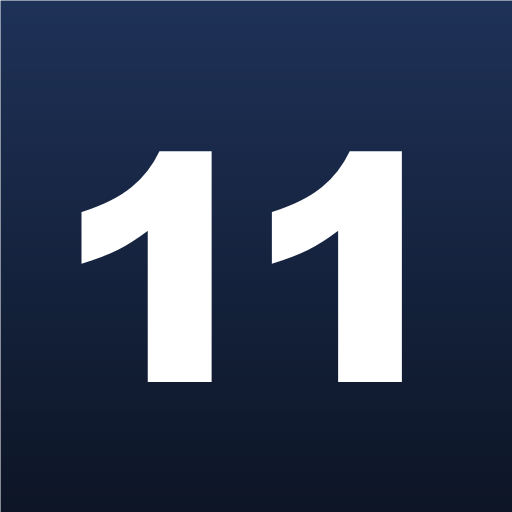
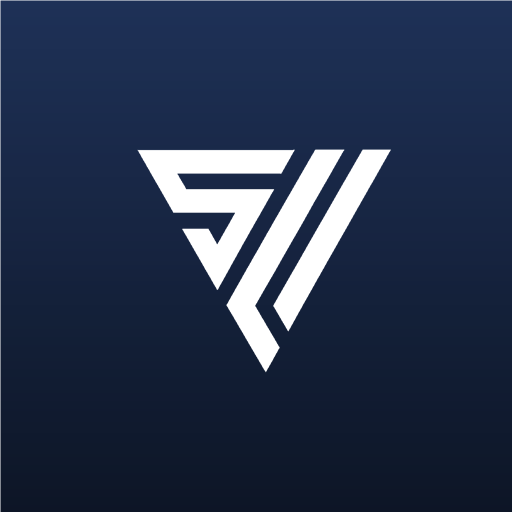
Add files via upload

Changed region(s): [[0.1562, 0.2812, 0.8125, 0.75]]

diff --git a/index.html b/index.html
@@ -299,6 +299,21 @@
   body.admin #authInfo{color:var(--tertiary); font-family:var(--f-label); font-size:11px; letter-spacing:.05em;}
   .ro-note{font-family:var(--f-label); font-size:11px; letter-spacing:.04em; color:var(--on-var);
     background:var(--c-low); border:1px solid var(--outline-v); border-radius:var(--r); padding:8px 12px; margin-bottom:12px;}
+  .admin-row{display:flex; align-items:center; justify-content:space-between; gap:10px; padding:10px 12px;
+    border-radius:var(--r); background:var(--c-low); border:1px solid var(--outline-v); margin-bottom:7px;}
+  .admin-row b{font-family:var(--f-head); font-weight:600; font-size:14px;}
+  .admin-row .ar-btns{display:flex; gap:6px; flex-shrink:0;}
+  /* 사진 크롭 편집기 */
+  #cropOverlay{z-index:70;}
+  .crop-stage{width:280px; max-width:100%; margin:0 auto; border-radius:var(--r-md); overflow:hidden; touch-action:none; cursor:grab;
+    background:repeating-conic-gradient(#2c2f34 0% 25%, #22252a 0% 50%) 50%/22px 22px; border:1px solid var(--outline-v);}
+  .crop-stage:active{cursor:grabbing;}
+  #cropCanvas{display:block; width:100%; height:auto;}
+  .crop-ctrl{display:flex; align-items:center; gap:10px; margin-top:14px;}
+  .crop-ctrl input[type=range]{flex:1; accent-color:var(--primary);}
+  .crop-ctrl button{width:40px; height:40px; flex-shrink:0; border-radius:var(--r); background:var(--c-high);
+    border:1px solid var(--outline-v); color:var(--on); font-size:19px; font-weight:700; cursor:pointer;}
+  .crop-ctrl button:hover{background:var(--c-highest);}
   /* edit modal: position quick buttons + exclude */
   .pos-btns{display:flex; gap:6px; margin:4px 0 14px;}
   .pos-btns button{flex:1; font-family:var(--f-label); font-size:12px; font-weight:700; padding:9px 0; border-radius:var(--r);
@@ -341,7 +356,7 @@
 </head>
 <body>
 <header>
-  <div class="logo"><span class="mk">⚽</span>수지<span style="color:var(--primary)">FC</span></div>
+  <div class="logo"><span class="mk"><img src="logo-mark.png" alt="수지FC" style="width:23px;height:23px;object-fit:contain;"></span>수지<span style="color:var(--primary)">FC</span></div>
   <div class="tabs">
     <button id="tab-lineup" class="active" onclick="showView('lineup')">라인업 생성</button>
     <button id="tab-roster" onclick="showView('roster')">선수 명단</button>
@@ -349,6 +364,7 @@
     <button id="tab-stats" onclick="showView('stats')">개인 기록</button>
   </div>
   <span class="spacer" id="authInfo"></span>
+  <button id="adminManageBtn" class="btn sm" style="display:none;" onclick="openAdminManage()">운영진 관리</button>
   <button id="authBtn" class="btn sm" style="display:none;" onclick="authClick()">운영진 로그인</button>
 </header>
 
@@ -374,9 +390,9 @@
             <div><div class="t">1. 완전 무작위</div><div class="d">전체 임의 랜덤으로 팀 편성</div></div></label>
           <label class="opt"><input type="radio" name="mtd" value="position">
             <div><div class="t">2. 포지션 고려</div><div class="d">수비·미드·공격 균형 배치</div></div></label>
-          <label class="opt"><input type="radio" name="mtd" value="skill">
+          <label class="opt admin-only"><input type="radio" name="mtd" value="skill">
             <div><div class="t">3. 실력 고려</div><div class="d">상·중·하 양팀 골고루</div></div></label>
-          <label class="opt"><input type="radio" name="mtd" value="both">
+          <label class="opt admin-only"><input type="radio" name="mtd" value="both">
             <div><div class="t">4. 포지션 + 실력</div><div class="d">포지션 균형 + 실력 최대한 유사</div></div></label>
         </div>
       </div>
@@ -386,7 +402,7 @@
         <div class="rowg">
           <div><label class="fld">포지션</label>
             <select id="gPos"><option>GK</option><option>DF</option><option selected>MF</option><option>FW</option></select></div>
-          <div><label class="fld">실력</label>
+          <div class="admin-only"><label class="fld">실력</label>
             <select id="gSkill"><option>상</option><option selected>중</option><option>하</option></select></div>
           <div style="max-width:78px"><label class="fld">인원</label>
             <input type="number" id="gCount" min="1" max="20" value="1"></div>
@@ -435,7 +451,7 @@
       <div class="filters">
         <div class="fgroup"><span class="lab">포지션</span>
           <div class="chips" id="posChips"></div></div>
-        <div class="fgroup"><span class="lab">실력</span>
+        <div class="fgroup admin-only"><span class="lab">실력</span>
           <div class="chips" id="skillChips"></div></div>
         <div class="fgroup"><span class="lab">참석</span>
           <div class="chips" id="attendChips"></div></div>
@@ -482,19 +498,29 @@
 <!-- history modal -->
 <div class="overlay" id="histOverlay"><div class="modal wide" id="histBody"></div></div>
 
-<!-- login modal -->
+<!-- login / signup modal -->
 <div class="overlay" id="loginOverlay"><div class="modal">
-  <h3>🔒 운영진 로그인</h3>
-  <p class="muted" style="font-size:12px; text-align:center; margin:0 0 16px;">명단·사진·기록을 수정하려면 로그인하세요.<br>선수는 로그인 없이 열람만 하면 됩니다.</p>
+  <h3 id="loginTitle">🔒 운영진 로그인</h3>
+  <p class="muted" id="loginHint" style="font-size:12px; text-align:center; margin:0 0 16px;">명단·사진·기록을 수정하려면 로그인하세요.</p>
+  <div id="signupNameWrap" style="display:none;">
+    <label class="fld">이름</label>
+    <input type="text" id="signupName" placeholder="이름" maxlength="10">
+  </div>
   <label class="fld">이메일</label>
-  <input type="email" id="loginEmail" placeholder="[email redacted]" autocomplete="username">
+  <input type="email" id="loginEmail" placeholder="[email redacted]" autocomplete="username">
   <label class="fld">비밀번호</label>
-  <input type="password" id="loginPw" placeholder="비밀번호" autocomplete="current-password">
+  <input type="password" id="loginPw" placeholder="비밀번호 (6자 이상)" autocomplete="current-password">
   <div class="modal-btns">
-    <button class="btn primary" style="flex:1;" onclick="doLogin()">로그인</button>
+    <button class="btn primary" id="loginSubmit" style="flex:1;" onclick="doLoginOrSignup()">로그인</button>
     <button class="btn ghost" style="flex:1;" onclick="closeLogin()">취소</button>
   </div>
+  <div style="text-align:center; margin-top:14px;">
+    <a id="modeToggle" onclick="toggleAuthMode()" style="cursor:pointer; color:var(--primary); font-size:13px; font-weight:600;">운영진으로 가입 신청하기 →</a>
+  </div>
 </div></div>
+
+<!-- admin management modal -->
+<div class="overlay" id="adminOverlay"><div class="modal wide" id="adminBody"></div></div>
 
 <!-- modal -->
 <div class="overlay" id="overlay">
@@ -525,11 +551,28 @@
 <!-- lineup edit modal -->
 <div class="overlay" id="editOverlay"><div class="modal wide" id="editBody"></div></div>
 
+<!-- photo crop modal -->
+<div class="overlay" id="cropOverlay"><div class="modal">
+  <h3>🖼️ 사진 위치·크기 조정</h3>
+  <p class="muted" style="font-size:12px; text-align:center; margin:0 0 14px;">드래그로 이동 · 슬라이더/휠/손가락으로 확대·축소</p>
+  <div class="crop-stage"><canvas id="cropCanvas" width="280" height="280"></canvas></div>
+  <div class="crop-ctrl">
+    <button type="button" onclick="cropZoom(-0.15)">－</button>
+    <input type="range" id="cropRange" min="0.3" max="5" step="0.01" value="1" oninput="cropSetZoom(this.value)">
+    <button type="button" onclick="cropZoom(0.15)">＋</button>
+  </div>
+  <div class="modal-btns">
+    <button class="btn primary" style="flex:1;" onclick="applyCrop()">적용</button>
+    <button class="btn ghost" style="flex:1;" onclick="closeCrop()">취소</button>
+  </div>
+</div></div>
+
 <div class="toast" id="toast"></div>
 
 <script>
 /* ============ 상수 ============ */
 const POS_COLORS={GK:'#f1c40f',DF:'#5b9bff',MF:'#3ddc84',FW:'#ff5a52'};
+const DEFAULT_PROFILE_SRC='profile-none.png';
 const POS_LIST=['GK','DF','MF','FW'];
 const SKILL_LIST=['상','중','하'];
 const SKILL_SCORE={'상':3,'중':2,'하':1};
@@ -565,7 +608,7 @@ let drag=null, hoverRef=null, hoverKey=null;
 const EMPTY_STATS={games:0,goals:0,assists:0,saves:0};
 
 /* ============ Firebase 연동 (실시간 동기화 · 운영진 편집) ============ */
-let FB=null, FBauth=null, isAdmin=false, attendMap={};
+let FB=null, FBauth=null, isAdmin=false, currentUser=null, attendMap={}, authMode='login';
 function canEdit(){ return !FB || isAdmin; }
 function requireAdmin(){ if(canEdit()) return true; toast('운영진 로그인이 필요합니다 🔒'); return false; }
 function loadAttend(){ const r=localStorage.getItem('suziFC_attend'); if(r){try{attendMap=JSON.parse(r);}catch(e){attendMap={};}} }
@@ -579,7 +622,9 @@ function initFirebase(){
     firebase.initializeApp(window.SUJI_FIREBASE_CONFIG);
     FB=firebase.firestore(); FBauth=firebase.auth();
     FB.enablePersistence({synchronizeTabs:true}).catch(()=>{});
-    FBauth.onAuthStateChanged(u=>{ isAdmin=!!u; updateAdminUI(); if(u) maybeSeed(); });
+    FBauth.onAuthStateChanged(u=>{ currentUser=u;
+      if(u){ FB.collection('admins').doc(u.uid).get().then(doc=>{ isAdmin=doc.exists; updateAdminUI(); if(isAdmin) maybeSeed(); }).catch(()=>{ isAdmin=false; updateAdminUI(); }); }
+      else { isAdmin=false; updateAdminUI(); } });
     subscribeRoster(); subscribeMatches();
     return true;
   }catch(e){ console.error('Firebase init 실패',e); FB=null; return false; }
@@ -611,29 +656,124 @@ function fbReplaceRoster(list){ if(!FB||!isAdmin) return; FB.collection('roster'
 function fbSaveMatch(mt){ if(!FB||!isAdmin||!mt) return; FB.collection('matches').doc(mt.id).set(matchDoc(mt)).catch(e=>console.error(e)); }
 function fbDeleteMatch(id){ if(!FB||!isAdmin) return; FB.collection('matches').doc(id).delete().catch(e=>console.error(e)); }
 function updateAdminUI(){
-  const admin=canEdit();
-  document.body.classList.toggle('admin',admin);
-  const btn=document.getElementById('authBtn'), info=document.getElementById('authInfo');
-  if(FB){ btn.style.display=''; btn.textContent=isAdmin?'로그아웃':'운영진 로그인'; info.textContent=isAdmin?'● 운영진 모드':''; }
-  else { btn.style.display='none'; info.textContent=''; }
+  document.body.classList.toggle('admin',canEdit());
+  const btn=document.getElementById('authBtn'), info=document.getElementById('authInfo'), mng=document.getElementById('adminManageBtn');
+  if(FB){
+    btn.style.display='';
+    if(!currentUser){ btn.textContent='운영진 로그인'; info.textContent=''; }
+    else if(isAdmin){ btn.textContent='로그아웃'; info.textContent='● 운영진 모드'; }
+    else { btn.textContent='로그아웃'; info.textContent='승인 대기 중'; }
+    mng.style.display=isAdmin?'':'none';
+  } else { btn.style.display='none'; info.textContent=''; mng.style.display='none'; }
   renderRoster();
   if(document.getElementById('view-stats').classList.contains('on')) renderStats();
   if(document.getElementById('view-match').classList.contains('on')) renderMatches();
 }
-function authClick(){ if(!FB) return; if(isAdmin){ FBauth.signOut(); toast('로그아웃되었습니다'); } else openLogin(); }
-function openLogin(){ document.getElementById('loginEmail').value=''; document.getElementById('loginPw').value=''; document.getElementById('loginOverlay').classList.add('on'); }
+function authClick(){ if(!FB) return; if(currentUser){ FBauth.signOut(); toast('로그아웃되었습니다'); } else openLogin(); }
+function openLogin(){ authMode='login'; renderAuthMode();
+  document.getElementById('signupName').value=''; document.getElementById('loginEmail').value=''; document.getElementById('loginPw').value='';
+  document.getElementById('loginOverlay').classList.add('on'); }
 function closeLogin(){ document.getElementById('loginOverlay').classList.remove('on'); }
-function doLogin(){ const em=document.getElementById('loginEmail').value.trim(), pw=document.getElementById('loginPw').value;
+function renderAuthMode(){
+  const s=authMode==='signup';
+  document.getElementById('loginTitle').textContent=s?'📝 운영진 가입 신청':'🔒 운영진 로그인';
+  document.getElementById('loginHint').textContent=s?'가입 후 관리자 승인을 받으면 편집할 수 있습니다.':'명단·기록을 수정하려면 로그인하세요.';
+  document.getElementById('signupNameWrap').style.display=s?'':'none';
+  document.getElementById('loginSubmit').textContent=s?'가입 신청':'로그인';
+  document.getElementById('modeToggle').textContent=s?'← 로그인으로 돌아가기':'운영진으로 가입 신청하기 →';
+}
+function toggleAuthMode(){ authMode=authMode==='signup'?'login':'signup'; renderAuthMode(); }
+function authErr(e){ const c=e&&e.code||''; if(c==='auth/email-already-in-use')return '이미 가입된 이메일입니다'; if(c==='auth/invalid-email')return '이메일 형식이 올바르지 않습니다'; if(c==='auth/weak-password')return '비밀번호는 6자 이상이어야 합니다'; if(c==='auth/wrong-password'||c==='auth/invalid-credential')return '이메일 또는 비밀번호가 올바르지 않습니다'; if(c==='auth/user-not-found')return '가입되지 않은 이메일입니다'; return '다시 시도해주세요'; }
+function doLoginOrSignup(){
+  const em=document.getElementById('loginEmail').value.trim(), pw=document.getElementById('loginPw').value;
   if(!em||!pw){ toast('이메일과 비밀번호를 입력하세요'); return; }
-  FBauth.signInWithEmailAndPassword(em,pw).then(()=>{ closeLogin(); toast('운영진 로그인 성공 ✅'); }).catch(e=>{ console.error(e); toast('로그인 실패 — 이메일/비밀번호를 확인하세요'); }); }
+  if(authMode==='signup'){
+    const name=document.getElementById('signupName').value.trim();
+    if(!name){ toast('이름을 입력하세요'); return; }
+    if(pw.length<6){ toast('비밀번호는 6자 이상이어야 합니다'); return; }
+    FBauth.createUserWithEmailAndPassword(em,pw)
+      .then(cred=>FB.collection('adminRequests').doc(cred.user.uid).set({name,email:em,at:Date.now()}))
+      .then(()=>{ closeLogin(); toast('운영진 가입 신청 완료! 관리자 승인을 기다려주세요 📝'); })
+      .catch(e=>{ console.error(e); toast('가입 실패: '+authErr(e)); });
+  } else {
+    FBauth.signInWithEmailAndPassword(em,pw).then(()=>{ closeLogin(); toast('로그인 성공 ✅'); }).catch(e=>{ console.error(e); toast('로그인 실패: '+authErr(e)); });
+  }
+}
+/* 운영진 관리 (승인/거절/제거) */
+function openAdminManage(){
+  if(!FB||!isAdmin){ toast('운영진만 사용할 수 있습니다'); return; }
+  const body=document.getElementById('adminBody');
+  body.innerHTML='<h3>👥 운영진 관리</h3><p class="muted" style="font-size:12px;text-align:center;padding:16px 0;">불러오는 중...</p>';
+  document.getElementById('adminOverlay').classList.add('on');
+  Promise.all([FB.collection('adminRequests').get(), FB.collection('admins').get()]).then(([reqs,admins])=>{
+    let html='<h3>👥 운영진 관리</h3>';
+    html+='<div class="modal-sub">🕓 승인 대기</div>';
+    if(reqs.empty) html+='<p class="muted" style="font-size:12px;margin:0 0 8px;">대기 중인 신청이 없습니다.</p>';
+    else reqs.forEach(d=>{ const r=d.data(), nm=(r.name||'').replace(/'/g,"\\'"), em=(r.email||'').replace(/'/g,"\\'");
+      html+=`<div class="admin-row"><div style="min-width:0"><b>${r.name||'(이름없음)'}</b><div class="muted" style="font-size:11px">${r.email||''}</div></div>
+        <div class="ar-btns"><button class="btn primary sm" onclick="approveReq('${d.id}','${nm}','${em}')">승인</button>
+        <button class="btn ghost sm" onclick="rejectReq('${d.id}')">거절</button></div></div>`; });
+    html+='<div class="modal-sub" style="margin-top:16px">✅ 현재 운영진</div>';
+    admins.forEach(d=>{ const a=d.data(), me=(currentUser&&d.id===currentUser.uid);
+      html+=`<div class="admin-row"><div style="min-width:0"><b>${a.name||a.email||'운영진'}</b>${me?' <span style="color:var(--tertiary);font-size:11px">(나)</span>':''}<div class="muted" style="font-size:11px">${a.email||''}</div></div>
+        ${me?'':`<div class="ar-btns"><button class="btn ghost sm" onclick="removeAdmin('${d.id}')">제거</button></div>`}</div>`; });
+    html+='<div class="modal-btns"><button class="btn ghost" style="flex:1" onclick="closeAdminManage()">닫기</button></div>';
+    body.innerHTML=html;
+  }).catch(e=>{ console.error(e); body.innerHTML='<h3>👥 운영진 관리</h3><p class="muted" style="text-align:center;padding:16px 0;">불러오기 실패</p><div class="modal-btns"><button class="btn ghost" style="flex:1" onclick="closeAdminManage()">닫기</button></div>'; });
+}
+function closeAdminManage(){ document.getElementById('adminOverlay').classList.remove('on'); }
+function approveReq(uid,name,email){ FB.collection('admins').doc(uid).set({name,email,at:Date.now()})
+  .then(()=>FB.collection('adminRequests').doc(uid).delete()).then(()=>{ toast('승인 완료 ✅'); openAdminManage(); }).catch(e=>{ console.error(e); toast('승인 실패'); }); }
+function rejectReq(uid){ FB.collection('adminRequests').doc(uid).delete().then(()=>{ toast('신청을 거절했습니다'); openAdminManage(); }).catch(e=>{ console.error(e); toast('실패'); }); }
+function removeAdmin(uid){ if(!confirm('이 운영진 권한을 제거할까요?'))return; FB.collection('admins').doc(uid).delete().then(()=>{ toast('운영진에서 제거했습니다'); openAdminManage(); }).catch(e=>{ console.error(e); toast('실패'); }); }
 function compressImage(src,cb){
   const img=new Image();
-  img.onload=()=>{ const max=256; let w=img.width,h=img.height;
+  img.onload=()=>{ const max=340; let w=img.width,h=img.height;
     if(w>h){ if(w>max){h=Math.round(h*max/w); w=max;} } else { if(h>max){w=Math.round(w*max/h); h=max;} }
-    const c=document.createElement('canvas'); c.width=w; c.height=h; c.getContext('2d').drawImage(img,0,0,w,h);
-    try{ cb(c.toDataURL('image/jpeg',0.72)); }catch(e){ cb(src); } };
+    const c=document.createElement('canvas'); c.width=w; c.height=h;
+    const ctx=c.getContext('2d'); ctx.clearRect(0,0,w,h); ctx.drawImage(img,0,0,w,h);
+    // 투명 배경(컷아웃 PNG)이면 PNG로 저장해 투명 유지, 아니면 JPEG로 용량 절감
+    let hasAlpha=false;
+    try{ const dt=ctx.getImageData(0,0,w,h).data; for(let i=3;i<dt.length;i+=4){ if(dt[i]<250){ hasAlpha=true; break; } } }catch(e){ hasAlpha=true; }
+    try{ cb(hasAlpha ? c.toDataURL('image/png') : c.toDataURL('image/jpeg',0.78)); }catch(e){ cb(src); } };
   img.onerror=()=>cb(src); img.src=src;
 }
+/* ============ 사진 크롭 편집기 ============ */
+const CROP_C=280;
+let cropImg=null, cropZoomV=1, cropBaseScale=1, cropX=0, cropY=0;
+const cropPtrs=new Map(); let cropPanStart=null, cropPinch=null;
+function clampv(v,a,b){ return Math.max(a,Math.min(b,v)); }
+function canvasToDataURL(c){ const ctx=c.getContext('2d'); let hasAlpha=false;
+  try{ const d=ctx.getImageData(0,0,c.width,c.height).data; for(let i=3;i<d.length;i+=4){ if(d[i]<250){hasAlpha=true;break;} } }catch(e){ hasAlpha=true; }
+  return hasAlpha ? c.toDataURL('image/png') : c.toDataURL('image/jpeg',0.82); }
+function openCrop(src){
+  cropImg=new Image();
+  cropImg.onload=()=>{ cropBaseScale=Math.min(CROP_C/cropImg.width, CROP_C/cropImg.height); cropZoomV=1; cropX=0; cropY=0;
+    document.getElementById('cropRange').value=1; drawCrop(); document.getElementById('cropOverlay').classList.add('on'); };
+  cropImg.onerror=()=>{ compressImage(src,d=>{tempPhoto=d;setAva(tempPhoto,'');}); };
+  cropImg.src=src;
+}
+function closeCrop(){ document.getElementById('cropOverlay').classList.remove('on'); cropPtrs.clear(); cropPanStart=null; cropPinch=null; }
+function drawCrop(){ if(!cropImg)return; const c=document.getElementById('cropCanvas'), ctx=c.getContext('2d');
+  ctx.clearRect(0,0,CROP_C,CROP_C); const s=cropBaseScale*cropZoomV, w=cropImg.width*s, h=cropImg.height*s;
+  ctx.drawImage(cropImg, CROP_C/2 - w/2 + cropX, CROP_C/2 - h/2 + cropY, w, h); }
+function cropZoom(d){ cropZoomV=clampv(cropZoomV+d,0.3,5); document.getElementById('cropRange').value=cropZoomV.toFixed(2); drawCrop(); }
+function cropSetZoom(v){ cropZoomV=clampv(+v,0.3,5); drawCrop(); }
+function cropFactor(){ const c=document.getElementById('cropCanvas'); return CROP_C / (c.clientWidth||CROP_C); }
+function cropDown(e){ const c=e.currentTarget; try{c.setPointerCapture(e.pointerId);}catch(_){} cropPtrs.set(e.pointerId,{x:e.clientX,y:e.clientY}); e.preventDefault();
+  if(cropPtrs.size===1){ cropPanStart={x:e.clientX,y:e.clientY,ox:cropX,oy:cropY}; cropPinch=null; }
+  else if(cropPtrs.size===2){ const p=[...cropPtrs.values()]; cropPinch={d:Math.hypot(p[0].x-p[1].x,p[0].y-p[1].y),z:cropZoomV}; cropPanStart=null; } }
+function cropMove(e){ if(!cropPtrs.has(e.pointerId))return; cropPtrs.set(e.pointerId,{x:e.clientX,y:e.clientY});
+  if(cropPinch && cropPtrs.size>=2){ const p=[...cropPtrs.values()], d=Math.hypot(p[0].x-p[1].x,p[0].y-p[1].y);
+    cropZoomV=clampv(cropPinch.z*(d/cropPinch.d),0.3,5); document.getElementById('cropRange').value=cropZoomV.toFixed(2); drawCrop(); }
+  else if(cropPanStart){ const f=cropFactor(); cropX=cropPanStart.ox+(e.clientX-cropPanStart.x)*f; cropY=cropPanStart.oy+(e.clientY-cropPanStart.y)*f; drawCrop(); } }
+function cropUp(e){ cropPtrs.delete(e.pointerId); if(cropPtrs.size<2)cropPinch=null;
+  if(cropPtrs.size===0)cropPanStart=null; else if(cropPtrs.size===1){ const p=[...cropPtrs.values()][0]; cropPanStart={x:p.x,y:p.y,ox:cropX,oy:cropY}; } }
+function applyCrop(){ if(!cropImg){ closeCrop(); return; } const OUT=340, k=OUT/CROP_C;
+  const oc=document.createElement('canvas'); oc.width=OUT; oc.height=OUT; const octx=oc.getContext('2d');
+  const s=cropBaseScale*cropZoomV, w=cropImg.width*s*k, h=cropImg.height*s*k;
+  octx.drawImage(cropImg, OUT/2 - w/2 + cropX*k, OUT/2 - h/2 + cropY*k, w, h);
+  tempPhoto=canvasToDataURL(oc); setAva(tempPhoto,''); closeCrop(); }
 
 /* ============ 저장/생성 ============ */
 function save(){ localStorage.setItem('suziFC_members',JSON.stringify(members)); }
@@ -730,7 +870,7 @@ function renderRoster(){
       <span class="ava sm" ${ava}>${m.photo?'':m.name[0]}</span>
       <span class="mr-name">${m.name}</span>
       <span class="badge pos" style="background:${POS_COLORS[m.position]}">${m.position}</span>
-      <span class="badge skill">${m.skill}</span>
+      <span class="badge skill admin-only">${m.skill}</span>
       ${m.age?`<span class="mr-age">${m.age}세</span>`:''}
       <span class="mr-sp"></span>
       <button class="mr-toggle ${m.attend?'on':''}" onclick="toggleAttend('${m.id}')">${m.attend?'참석':'불참'}</button>
@@ -771,7 +911,7 @@ function setAva(photo,fb){ const a=document.getElementById('avaEdit');
 function clearPhoto(){ tempPhoto=null; const nm=document.getElementById('mName').value.trim(); setAva(null,nm?nm[0]:'사진 선택'); toast('사진을 삭제했습니다'); }
 function closeModal(){ document.getElementById('overlay').classList.remove('on'); }
 document.getElementById('photoInput').addEventListener('change',e=>{ const f=e.target.files[0]; if(!f)return;
-  const r=new FileReader(); r.onload=ev=>{ compressImage(ev.target.result,d=>{ tempPhoto=d; setAva(tempPhoto,''); }); }; r.readAsDataURL(f); });
+  const r=new FileReader(); r.onload=ev=>openCrop(ev.target.result); r.readAsDataURL(f); e.target.value=''; });
 function saveMember(){
   if(!requireAdmin())return;
   const name=document.getElementById('mName').value.trim(); if(!name){toast('이름을 입력하세요');return;}
@@ -958,18 +1098,14 @@ function drawPosBadge(ctx,x,y,text,color){
   ctx.fillStyle='#0c0e11'; ctx.fillText(text,x,y+1);
 }
 function drawCard(ctx,x,y,p,accent){
-  const r=34; const img=(p&&p.photo)?getImg(p.photo):null;
-  ctx.save(); ctx.beginPath();ctx.arc(x,y,r,0,Math.PI*2);ctx.closePath();
-  if(img){ ctx.clip(); const s=Math.max(2*r/img.naturalWidth,2*r/img.naturalHeight),w=img.naturalWidth*s,h=img.naturalHeight*s;
+  const box=84, half=box/2;
+  const img=(p&&p.photo)?getImg(p.photo):getImg(DEFAULT_PROFILE_SRC);
+  if(img){ const s=Math.min(box/img.naturalWidth,box/img.naturalHeight),w=img.naturalWidth*s,h=img.naturalHeight*s;
     ctx.drawImage(img,x-w/2,y-h/2,w,h); }
-  else{ ctx.fillStyle=p?POS_COLORS[p.position]:'#3a3d42';ctx.fill();
-    ctx.fillStyle='#fff';ctx.font='bold 26px "Space Grotesk",sans-serif';ctx.textAlign='center';ctx.textBaseline='middle';
-    ctx.fillText(p?(p.name?p.name[0]:'?'):'+',x,y+1); }
-  ctx.restore();
-  ctx.beginPath();ctx.arc(x,y,r,0,Math.PI*2);ctx.lineWidth=3;ctx.strokeStyle=accent;ctx.stroke();
-  ctx.lineWidth=1;ctx.strokeStyle='rgba(255,255,255,.6)';ctx.beginPath();ctx.arc(x,y,r-2,0,Math.PI*2);ctx.stroke();
+  else if(p){ ctx.fillStyle='#fff';ctx.font='bold 24px "Space Grotesk",sans-serif';ctx.textAlign='center';ctx.textBaseline='middle';
+    ctx.fillText(p.name?p.name[0]:'?',x,y); }
   if(!p)return;
-  const bw=104,bh=30,bx=x-bw/2,by=y+r+6;
+  const bw=104,bh=30,bx=x-bw/2,by=y+half+4;
   roundRect(ctx,bx,by,bw,bh,7); ctx.fillStyle='rgba(8,12,16,.86)';ctx.fill();
   roundRect(ctx,bx,by,bw,4,2); ctx.fillStyle=accent;ctx.fill();
   ctx.textAlign='center';
@@ -989,10 +1125,10 @@ function drawTeam(canvas,team,key){
   order.forEach((pos,ri)=>{ const y=top+gap*ri+gap/2,arr=team.rows[pos];
     arr.forEach((p,ci)=>{ const x=CW*(ci+1)/(arr.length+1);
       drawCard(ctx,x,y,p,team.color);
-      drawPosBadge(ctx,x,y-46,slotLabel(pos,arr.length,ci),POS_COLORS[pos]);
-      if(key) hitMap[key].push({x,y,r:42,ref:{team:key,type:'starter',pos,idx:ci}});
+      drawPosBadge(ctx,x,y-54,slotLabel(pos,arr.length,ci),POS_COLORS[pos]);
+      if(key) hitMap[key].push({x,y,r:48,ref:{team:key,type:'starter',pos,idx:ci}});
       if(key&&hoverRef&&hoverRef.team===key&&hoverRef.type==='starter'&&hoverRef.pos===pos&&hoverRef.idx===ci){
-        ctx.beginPath();ctx.arc(x,y,44,0,Math.PI*2);ctx.lineWidth=4;ctx.strokeStyle='#fff';
+        ctx.beginPath();ctx.arc(x,y,50,0,Math.PI*2);ctx.lineWidth=4;ctx.strokeStyle='#fff';
         ctx.setLineDash([7,5]);ctx.stroke();ctx.setLineDash([]);
       }
     }); });
@@ -1046,7 +1182,7 @@ function renderResult(){
   const hint=document.createElement('div'); hint.className='edit-hint';
   hint.innerHTML='💡 선수를 <b>드래그</b>해 다른 선수 위에 놓으면 자리가 바뀝니다. <b>클릭</b>하면 목록에서 교체할 수도 있어요 (후보·다른 팀 포함).';
   box.appendChild(hint);
-  const srcs=[]; ['orange','green'].forEach(k=>{ const t=lastTeams[k];
+  const srcs=[DEFAULT_PROFILE_SRC]; ['orange','green'].forEach(k=>{ const t=lastTeams[k];
     POS_LIST.forEach(pos=>t.rows[pos].forEach(p=>{if(p&&p.photo)srcs.push(p.photo);}));
     (t.bench||[]).forEach(p=>{if(p&&p.photo)srcs.push(p.photo);}); });
   ensureImages(srcs,()=>{ drawTeam(document.getElementById('cv_orange'),lastTeams.orange,'orange'); drawTeam(document.getElementById('cv_green'),lastTeams.green,'green'); });
@@ -1301,7 +1437,14 @@ document.getElementById('overlay').addEventListener('click',e=>{ if(e.target.id=
 document.getElementById('editOverlay').addEventListener('click',e=>{ if(e.target.id==='editOverlay')closeEditLineup(); });
 document.getElementById('histOverlay').addEventListener('click',e=>{ if(e.target.id==='histOverlay')closeHistory(); });
 document.getElementById('loginOverlay').addEventListener('click',e=>{ if(e.target.id==='loginOverlay')closeLogin(); });
-document.getElementById('loginPw').addEventListener('keydown',e=>{ if(e.key==='Enter')doLogin(); });
+document.getElementById('adminOverlay').addEventListener('click',e=>{ if(e.target.id==='adminOverlay')closeAdminManage(); });
+document.getElementById('loginPw').addEventListener('keydown',e=>{ if(e.key==='Enter')doLoginOrSignup(); });
+(function(){ const cc=document.getElementById('cropCanvas');
+  cc.addEventListener('pointerdown',cropDown); cc.addEventListener('pointermove',cropMove);
+  cc.addEventListener('pointerup',cropUp); cc.addEventListener('pointercancel',cropUp);
+  cc.addEventListener('wheel',e=>{ e.preventDefault(); cropZoom(e.deltaY<0?0.12:-0.12); }, {passive:false});
+  document.getElementById('cropOverlay').addEventListener('click',e=>{ if(e.target.id==='cropOverlay')closeCrop(); });
+})();
 document.addEventListener('pointermove',onDragMove);
 document.addEventListener('pointerup',onDragEnd);
 document.addEventListener('pointercancel',onDragEnd);

diff --git a/sw.js b/sw.js
@@ -1,7 +1,8 @@
 /* 수지FC 라인업 생성기 - 서비스워커 (오프라인 지원) */
-const CACHE = 'suji-fc-v12';
+const CACHE = 'suji-fc-v16';
 const ASSETS = ['./', './index.html', './manifest.json', './icon-192.png', './icon-512.png', './xlsx.full.min.js',
-  './firebase-app-compat.js', './firebase-auth-compat.js', './firebase-firestore-compat.js', './firebase-config.js'];
+  './firebase-app-compat.js', './firebase-auth-compat.js', './firebase-firestore-compat.js', './firebase-config.js',
+  './logo-mark.png', './profile-none.png'];
 
 self.addEventListener('install', e => {
   e.waitUntil(